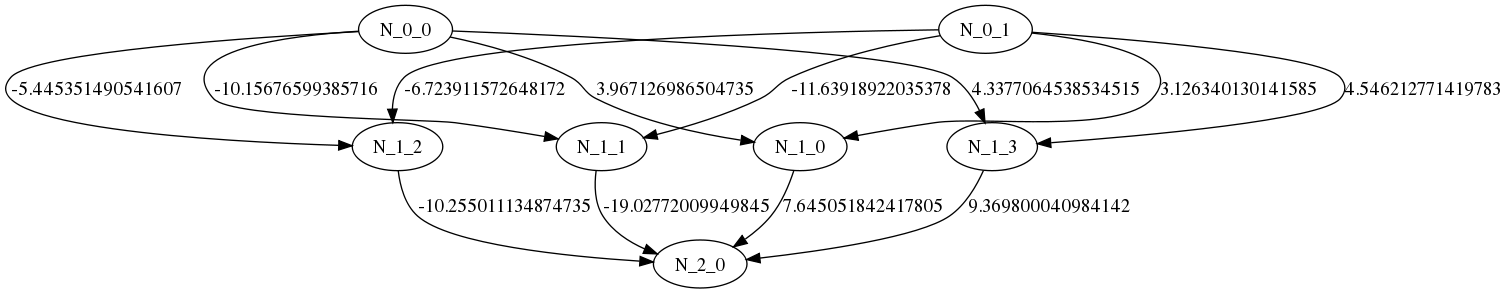
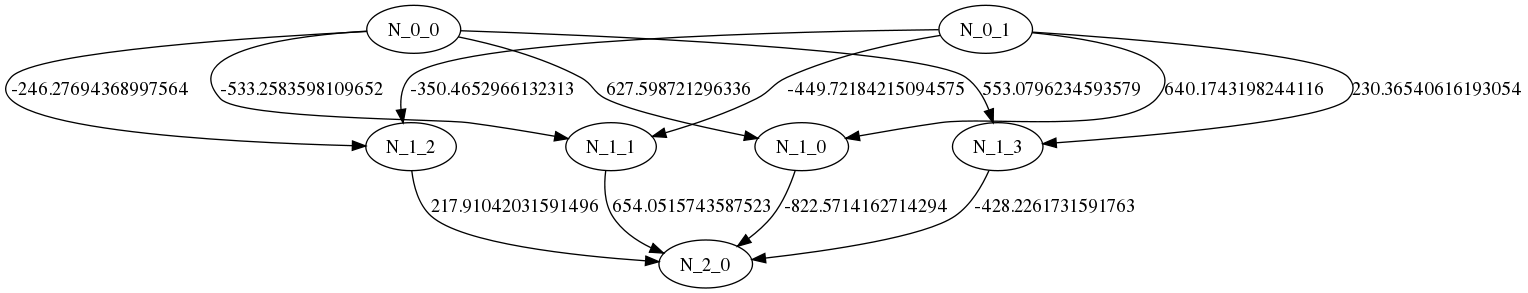
Added momentum to the network

diff --git a/convergence.html b/convergence.html
@@ -11,11 +11,11 @@
 
                 // Creates a simple line chart at 10, 10
                 // width 800, height 600
-                var linec = r.g.linechart(40,20,700,390,[0,5000,10000,15000,20000,25000,30000,35000,40000,45000,50000,55000,60000,65000,70000,75000,80000,85000,90000,95000
-],[[-0.7524380068033898,-0.2342180922429905,-0.027620826723765726,-0.001748769658790596,-0.0004983384301434012,-0.00023604858895546083,-0.00014007404733364692,-9.412260506445915e-05,-6.837476116292026e-05,-5.2383989314603475e-05,-4.170692783711074e-05,-3.41847805065006e-05,-2.8661765288804765e-05,-2.447151534746665e-05,-2.120672211337782e-05,-1.8606372460710458e-05,-1.649654443861366e-05,-1.4757485640312413e-05,-1.3304406878864195e-05,-1.2075811912895775e-05
-],[-0.7447688444528575,-0.2625534873859093,-0.22953571518227964,-0.10005392278580129,-0.06488417440160875,-0.04972233908714877,-0.04116221372940222,-0.035588527146414556,-0.03163055577105879,-0.028652006484360233,-0.02631564402467334,-0.02442521616494098,-0.022858294057904703,-0.021534287529895182,-0.02039782934077868,-0.019409531783032577,-0.01854055168935594,-0.017769245091079168,-0.01707902735366106,-0.016456958773120242
-],[0.2671844383696762,0.7131228059695813,0.33030821651128206,0.1376157596111658,0.08926819088262872,0.06846980290591509,0.05671851459473942,0.04906078013913506,0.043619327538297004,0.03952228079059683,0.03630725232570731,0.03370499832491014,0.03154746763903982,0.029723988786174105,0.02815849835970996,0.02679686729561248,0.02559944578335227,0.02453647279073623,0.023585138750767065,0.022727643471316283
-],[-0.7342644739059012,-0.26699695304428495,-0.19218445842173618,-0.08581159707032185,-0.056743713285407366,-0.043874878980876116,-0.03650330068502711,-0.03166083888777185,-0.02820161718995712,-0.025587255994758,-0.023529944813317112,-0.021861107201923767,-0.020475047937252733,-0.01930190987683235,-0.018293539849897775,-0.017415586752671488,-0.016642836117687243,-0.015956328390900137,-0.015341510077088685,-0.014787008492815012
+                var linec = r.g.linechart(40,20,700,390,[0,100,200,300,400,500,600,700,800,900,1000,1100,1200,1300,1400,1500
+],[[-0.5193198045085409,-0.2242397739038748,-0.0715655500459686,-0.0010034512200685123,-8.242480729434589e-06,-1.3308760067665712e-08,-1.4164665709652476e-12,-1.962368485917846e-18,-3.6211625817904735e-27,-3.3889152185558427e-40,-1.2735917182078537e-59,-1.3919816964551743e-88,-9.207985903629564e-132,-3.980806661560769e-196,-4.627703978136907e-292,0.0
+],[-0.4488873016999787,-0.24632657565144794,-0.3231368064560717,-0.06014482154641206,-0.004274178937190583,-3.247696910545523e-05,-8.383865606854542e-09,-4.606166886900233e-14,-2.5604073237245618e-21,-1.5454384069693389e-31,-2.1508983286765314e-46,-5.428421003026053e-68,-4.751385170607106e-99,-5.730829666909435e-143,-5.2369765118053144e-204,-1.0985862265407076e-288
+],[0.6101036764612945,0.7617993044525297,0.4268218094927271,0.05512945820162052,0.0010786943469494048,3.2097871881520135e-06,1.2366851986911342e-09,2.930988785010413e-14,0.0,0.0,0.0,0.0,0.0,0.0,0.0,0.0
+],[-0.4662135470434165,-0.2480256286761814,-0.17197874486985268,-0.01617552074783753,-0.00038883580176120124,-5.225835640680174e-07,-1.3020672230126904e-11,-4.049484718310331e-18,-3.527028397020043e-27,-2.6072751998869394e-40,-8.475552381512265e-60,-7.582351893435165e-89,-3.7221719534053155e-132,-1.031906897838495e-196,-6.185308660544832e-293,0.0
 ]], 
                   {"colors":['#F00','#0F0','#00F','#0FF','#FF0','#F0F'
 ], "symbol":"s", axis:"0 0 1 1"}

diff --git a/test/xortest.rb b/test/xortest.rb
@@ -1,5 +1,7 @@
 network = Network.new(2,1,3)
-n = 2000
+network.learningrate = 0.9
+network.momentum = 0.001
+n = 10000
 p = n / 10
 plot = n / 20
 errorX = Array.new
@@ -12,22 +14,22 @@ avgError = 1.0
 i = 0
 while (i < n and avgError > 0)
   
-  outputvals00 = network.run([0,0])
-  network.train(outputvals00, [0])
+  outputvals00 = network.run([0.0,0.0])
+  network.train(outputvals00, [0.0])
   
-  outputvals10 = network.run([1,0])
-  network.train(outputvals10, [0])
+  outputvals10 = network.run([1.0,0.0])
+  network.train(outputvals10, [1.0])
   
-  outputvals11 = network.run([1,1])
-  network.train(outputvals11, [1])
+  outputvals01 = network.run([0.0,1.0])
+  network.train(outputvals01, [1.0])
   
-  outputvals01 = network.run([0,1])
-  network.train(outputvals01, [0])
+  outputvals11 = network.run([1.0,1.0])
+  network.train(outputvals11, [0.0])
   
   error00=0.0-outputvals00[0]
-  error10=0.0-outputvals10[0]
-  error11=1.0-outputvals11[0]
-  error01=0.0-outputvals01[0]
+  error10=1.0-outputvals10[0]
+  error11=0.0-outputvals11[0]
+  error01=1.0-outputvals01[0]
   
   avgError = (error00.abs + error10.abs + error11.abs + error01.abs).to_f
   avgError = avgError/4.0
@@ -47,7 +49,7 @@ while (i < n and avgError > 0)
     puts " 1,1 = #{outputvals11[0]} "
     puts " avg error = #{avgError.abs}"
     puts "#{(i.to_f/n.to_f)*100.0} %"
-  end
+  end 
   i += 1
 end
 
@@ -57,8 +59,8 @@ lines = [errorY00, errorY10, errorY11, errorY01]
 chart = NeuroChart.new(errorX, lines)
 chart.createSVGChart
 
-puts 'Logical AND test'
-puts '0 AND 0 = ' + network.run([0,0])[0].to_s
-puts '0 AND 1 = ' + network.run([0,1])[0].to_s
-puts '1 AND 0 = ' + network.run([1,0])[0].to_s
-puts '1 AND 1 = ' + network.run([1,1])[0].to_s
+puts 'Logical XOR test'
+puts '0 XOR 0 = ' + network.run([0,0])[0].to_s
+puts '0 XOR 1 = ' + network.run([0,1])[0].to_s
+puts '1 XOR 0 = ' + network.run([1,0])[0].to_s
+puts '1 XOR 1 = ' + network.run([1,1])[0].to_s

diff --git a/test/ortest.rb b/test/ortest.rb
@@ -1,4 +1,5 @@
 network = Network.new(2,1,3)
+network.learningrate = 0.5
 n = 2000
 p = n / 10
 plot = n / 20
@@ -12,22 +13,22 @@ avgError = 1.0
 i = 0
 while (i < n and avgError > 0)
   
-  outputvals00 = network.run([0,0])
-  network.train(outputvals00, [0])
+  outputvals00 = network.run([0.0,0.0])
+  network.train(outputvals00, [0.0])
   
-  outputvals10 = network.run([1,0])
-  network.train(outputvals10, [0])
+  outputvals10 = network.run([1.0,0.0])
+  network.train(outputvals10, [1.0])
   
-  outputvals11 = network.run([1,1])
-  network.train(outputvals11, [1])
+  outputvals11 = network.run([1.0,1.0])
+  network.train(outputvals11, [1.0])
   
-  outputvals01 = network.run([0,1])
-  network.train(outputvals01, [0])
+  outputvals01 = network.run([0.0,1.0])
+  network.train(outputvals01, [1.0])
   
   error00=0.0-outputvals00[0]
-  error10=0.0-outputvals10[0]
+  error10=1.0-outputvals10[0]
   error11=1.0-outputvals11[0]
-  error01=0.0-outputvals01[0]
+  error01=1.0-outputvals01[0]
   
   avgError = (error00.abs + error10.abs + error11.abs + error01.abs).to_f
   avgError = avgError/4.0
@@ -57,8 +58,8 @@ lines = [errorY00, errorY10, errorY11, errorY01]
 chart = NeuroChart.new(errorX, lines)
 chart.createSVGChart
 
-puts 'Logical AND test'
-puts '0 AND 0 = ' + network.run([0,0])[0].to_s
-puts '0 AND 1 = ' + network.run([0,1])[0].to_s
-puts '1 AND 0 = ' + network.run([1,0])[0].to_s
-puts '1 AND 1 = ' + network.run([1,1])[0].to_s
+puts 'Logical OR test'
+puts '0 OR 0 = ' + network.run([0,0])[0].to_s
+puts '0 OR 1 = ' + network.run([0,1])[0].to_s
+puts '1 OR 0 = ' + network.run([1,0])[0].to_s
+puts '1 OR 1 = ' + network.run([1,1])[0].to_s

diff --git a/lib/network.rb b/lib/network.rb
@@ -1,12 +1,13 @@
 class Network
 
-  attr_accessor :learningrate, :inputs
+  attr_accessor :learningrate, :momentum, :inputs
 
   def initialize(numInputs, numOutputs, numLayers)
 
     @layers = Array.new
     @inputs = Array.new
-    @learningrate = 0.15
+    @learningrate = 0.90
+    @momentum = 0.001
     @biasNeuron = Neuron.new(Sigmoid.new)
     @biasNeuron.output = 1.0
 
@@ -50,7 +51,6 @@ class Network
       end # neuron
     end # layer index
 
-
     # load last layers error
     @layers.last.neurons.each_with_index do |neuron, i|
       neuron.error = outputerror[i]
@@ -65,7 +65,11 @@ class Network
         neuron.dendrites.each do |dendrite|
           dendrite.neuron.error += localgradient * dendrite.weight
           delta_w = @learningrate * localgradient * dendrite.neuron.output
-          dendrite.weight = dendrite.weight + delta_w # 0.8 is the momentum
+          # always move at least 0.001 in the target direction
+          delta_w +=  (localgradient<=>0.0)*(dendrite.neuron.output<=>0.0)*0.0001
+          # utilize momentum to reduce oscillation and speed convergence
+          delta_w += @momentum * dendrite.lastweight
+          dendrite.weight = dendrite.weight + delta_w
         end # dendrite
       end # neuron
     end # layer index

diff --git a/lib/input.rb b/lib/input.rb
@@ -1,14 +1,15 @@
 class Input
-  attr_accessor :value, :weight, :neuron
+  attr_accessor :value, :weight, :neuron, :lastweight
 
   def initialize()
     @neuron = Neuron.new(Sigmoid.new)
-    @weight = (rand*1.0)-0.5
+    @weight = (rand*2.0)-1.0
+    @lastweight = 0.0
   end
 
   def weight=(value)
+    @lastweight = @weight
     @weight = value
-    #puts "Input W set to #{value}"
   end
 
   def read

diff --git a/lib/dendrite.rb b/lib/dendrite.rb
@@ -1,11 +1,17 @@
 class Dendrite
-  attr_accessor :weight, :neuron
+  attr_accessor :weight, :neuron, :lastweight
 
   def initialize(neuron)
     @neuron = neuron
-    @weight = (rand*1.5)-0.5
+    @weight = (rand*2.0)-1.0
+    @lastweight = 0.0
   end
 
+  def weight=(value)
+    @lastweight = @weight
+    @weight = value
+  end
+  
   def read
     @neuron.output * @weight
   end
